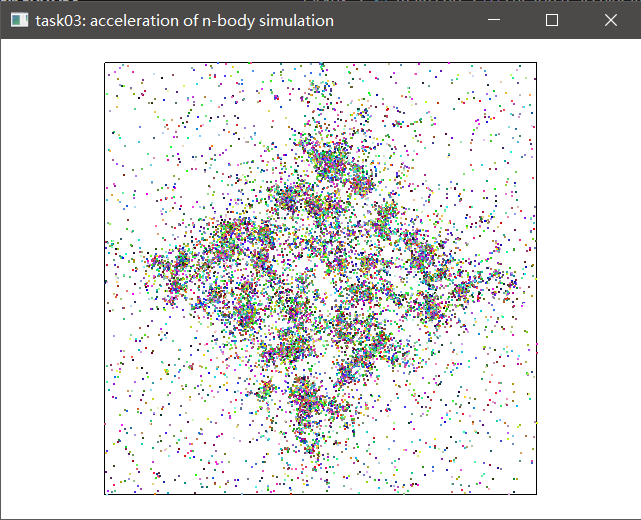
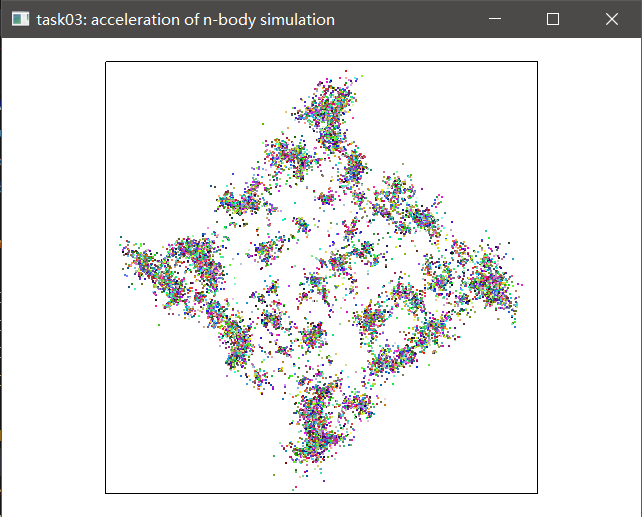
task03 finished

diff --git a/task03/main.cpp b/task03/main.cpp
@@ -172,9 +172,8 @@ void set_force_accelerated(
         } else { // far field approximation
           // write a few lines of code here to compute the force from far grid.
           // use the center for the gravity of the grid : `acc.grid2cg[jy * num_div + jx]`
-          unsigned int np = acc.grid2idx[iy * num_div + ix + 1] - acc.grid2idx[iy * num_div + ix];
+          unsigned int np = acc.grid2idx[jy * num_div + jx + 1] - acc.grid2idx[jy * num_div + jx];
           particles[ip].force += np * gravitational_force(acc.grid2cg[jy * num_div + jx] - particles[ip].pos);
-          
         }
       }
     }

diff --git a/task03/README.md b/task03/README.md
@@ -77,9 +77,9 @@ Record the computation time by filling the table below.
 
 | #particle | time |
 | --- | --- |
-| 5000 | 8495ms |
-| 10000 | 17079ms |
-| 20000 | 45987ms |
+| 5000 | 9395ms |
+| 10000 | 18120ms |
+| 20000 | 47797ms |
 
 With the simulation with 20k particles, run the program for 200 steps. 
 Then save the screenshot image, overwriting `task03/problem2.png`.
